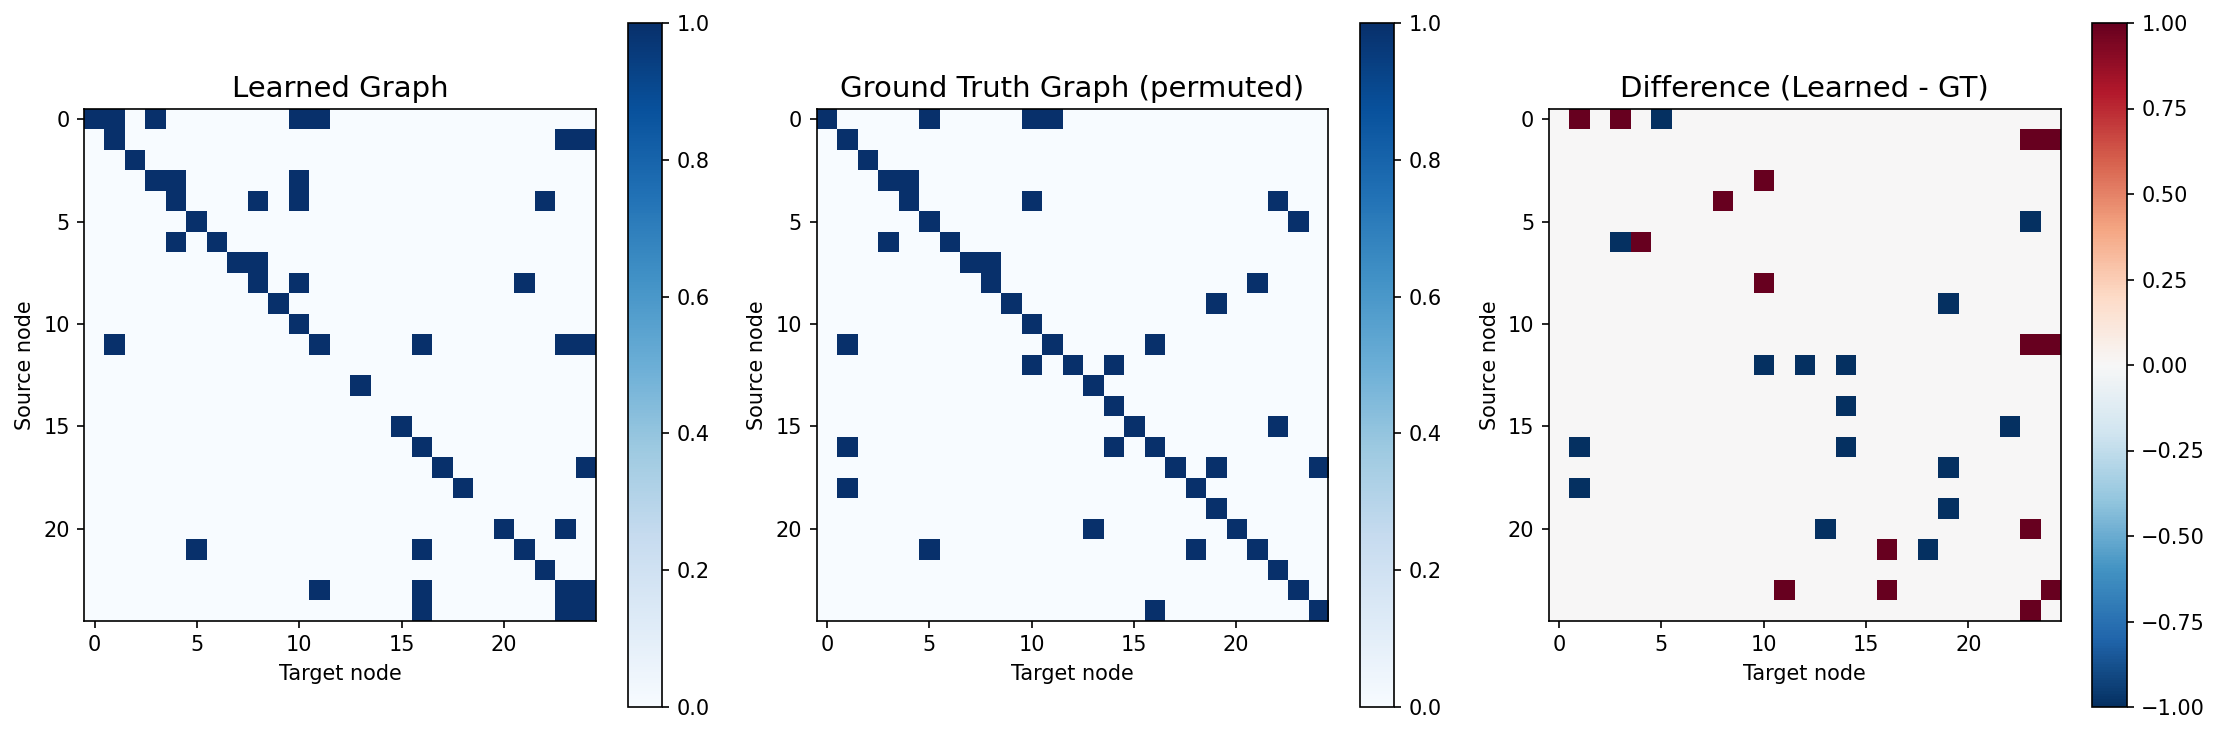
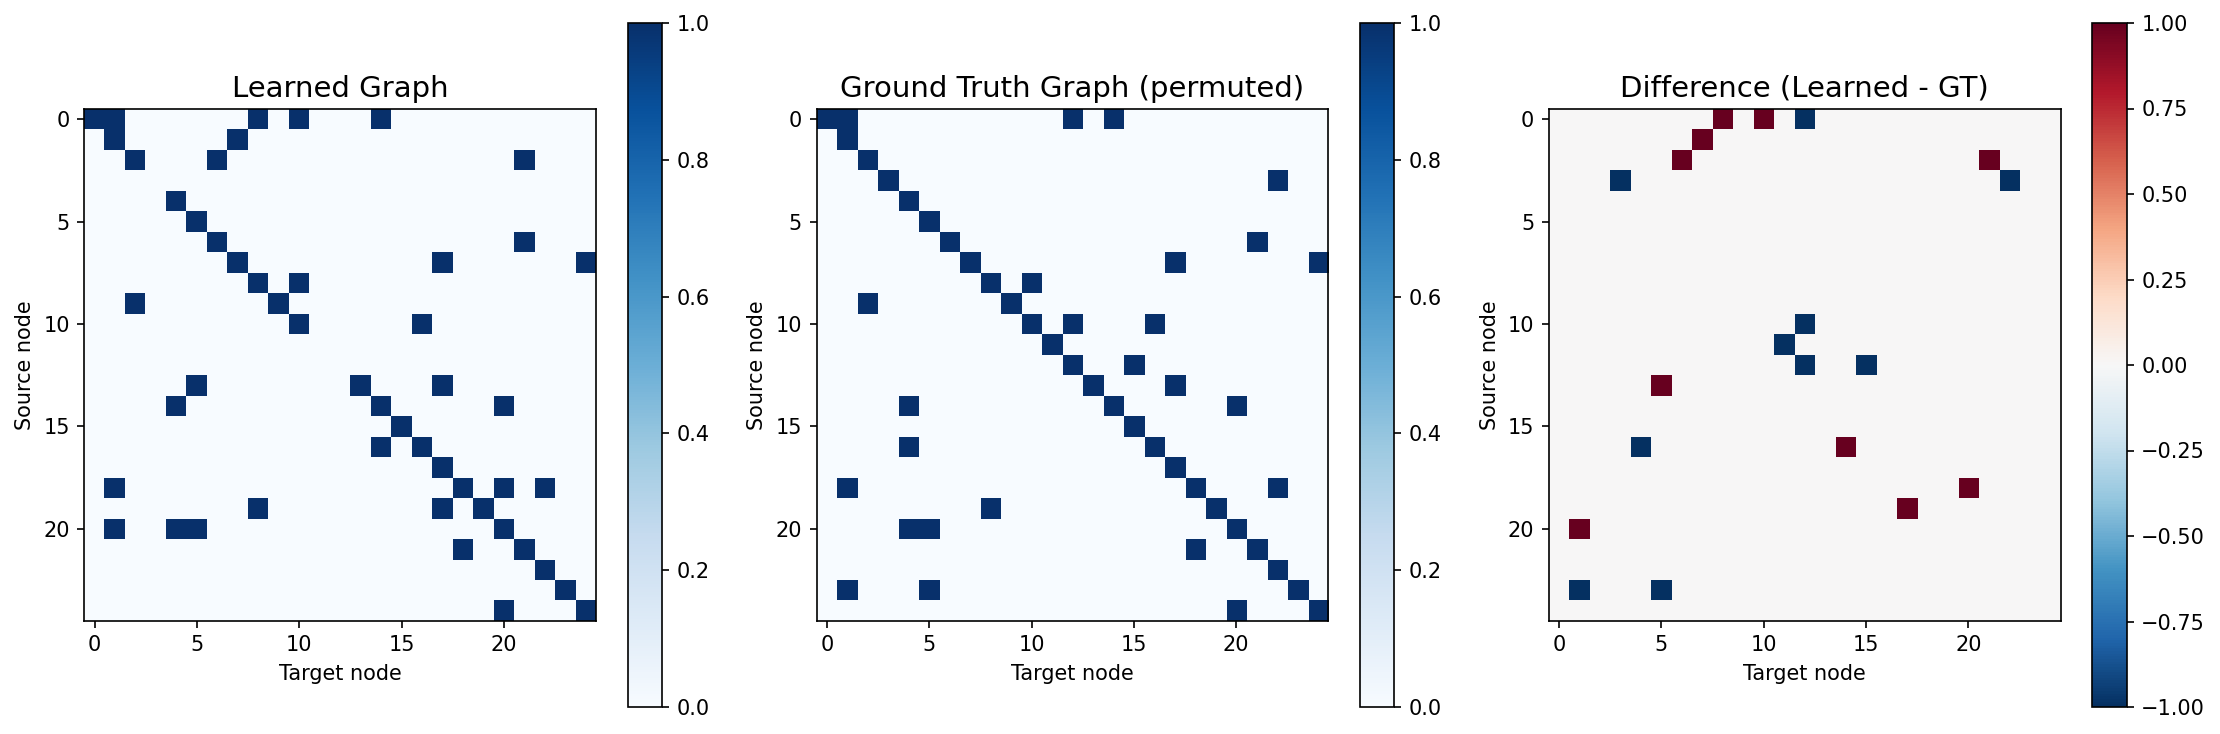
first commit

diff --git a/picabu_jax/train_picabu_latent.py b/picabu_jax/train_picabu_latent.py
@@ -65,11 +65,10 @@ Plotter = _get_plotter()
 class ALM:
     def __init__(self, mu_init=1e4, mu_mult_factor=1.2, omega_gamma=0.01,
                  omega_mu=0.9, h_threshold=1e-4, min_iter_convergence=100,
-                 dim_gamma=None, mu_max=1e6):  # 🔧 FIX: 添加 mu_max
+                 dim_gamma=None):
         self.mu_init = mu_init
         self.mu = mu_init
         self.mu_mult_factor = mu_mult_factor
-        self.mu_max = mu_max  # 🔧 FIX: μ 上限
         self.omega_gamma = omega_gamma
         self.omega_mu = omega_mu
         self.h_threshold = h_threshold
@@ -101,9 +100,6 @@ class ALM:
         if iteration > self.min_iter_convergence:
             if (prev - curr) / (prev + 1e-8) < self.omega_mu:
                 self.mu *= self.mu_mult_factor
-                # 🔧 FIX: μ 上限檢查
-                if self.mu > self.mu_max:
-                    self.mu = self.mu_max
                 self.has_increased_mu = True
         if isinstance(self.gamma, jnp.ndarray):
             self.gamma = self.gamma + self.omega_gamma * jnp.array(h_list[-1])
@@ -414,21 +410,18 @@ class TrainingLatentJAX:
             omega_gamma=self.hp.ortho_omega_gamma, omega_mu=self.hp.ortho_omega_mu,
             h_threshold=self.hp.ortho_h_threshold, min_iter_convergence=self.hp.ortho_min_iter_convergence,
             dim_gamma=(self.d_z, self.d_z),
-            mu_max=getattr(self.hp, 'ortho_mu_max', 1e6),  # 🔧 FIX: μ 上限
         )
         self.ALM_sparsity = SparsityALM(
             target_edges=self.target_edges,
             mu_init=getattr(self.hp, 'sparsity_mu_init', 0.1),
             mu_multiplier=getattr(self.hp, 'sparsity_mu_mult', 1.2),
-            threshold=1,
-            mu_max=getattr(self.hp, 'sparsity_mu_max', 1e4),  # 🔧 FIX: μ 上限
+            threshold=2.0,  # 合理的收斂閾值
         )
         if self.instantaneous:
             self.QPM_acyclic = ALM(
                 mu_init=self.hp.acyclic_mu_init, mu_mult_factor=self.hp.acyclic_mu_mult_factor,
                 omega_gamma=self.hp.acyclic_omega_gamma, omega_mu=self.hp.acyclic_omega_mu,
                 h_threshold=self.hp.acyclic_h_threshold, min_iter_convergence=self.hp.acyclic_min_iter_convergence,
-                mu_max=getattr(self.hp, 'acyclic_mu_max', 1e6),  # 🔧 FIX: μ 上限
             )
 
         while self.iteration < self.hp.max_iteration and not self.ended:
@@ -448,6 +441,13 @@ class TrainingLatentJAX:
                     ortho_conv = self.hp.no_w_constraint or self.ALM_ortho.state.has_converged
                     if self.ALM_ortho.state.has_increased_mu:
                         self._reset_optimizer()
+
+                    # 🔍 DEBUG: Sparsity ALM 收斂檢查
+                    if len(self.valid_sparsity_list) > 0:
+                        h = self.valid_sparsity_list[-1]
+                        print(f"[DEBUG] h_sparsity: {h:.4f}, threshold: {self.ALM_sparsity.threshold}, "
+                              f"abs(h) < threshold? {abs(h) < self.ALM_sparsity.threshold}, "
+                              f"μ: {self.ALM_sparsity.mu:.2e}")
 
                     self.ALM_sparsity.update(self.iteration, self.valid_sparsity_list, self.valid_loss_list)
                     if self.ALM_sparsity.has_increased_mu:

diff --git a/picabu_jax/dag_optim_jax.py b/picabu_jax/dag_optim_jax.py
@@ -228,13 +228,11 @@ class SparsityALM:
         omega_gamma: float = 0.01,
         omega_mu: float = 0.5,
         min_iter_convergence: int = 100,
-        mu_max: float = 1e4,
     ):
         self.target_edges = target_edges
         self.mu = mu_init
         self.mu_init = mu_init
         self.mu_multiplier = mu_multiplier
-        self.mu_max = mu_max
         self.threshold = threshold
         self.omega_gamma = omega_gamma
         self.omega_mu = omega_mu
@@ -267,7 +265,10 @@ class SparsityALM:
         return loss, float(h)
     
     def update(self, iteration: int, violation_list: list, loss_list: list):
-        """更新 ALM 參數"""
+        """
+        更新 ALM 參數（每個 epoch 調用一次）
+        """
+        self.iteration = iteration
         self.has_increased_mu = False
         
         if len(violation_list) < 2:
@@ -279,22 +280,20 @@ class SparsityALM:
         self.violation_history.append(current_h)
         
         # 檢查是否收斂
-        if current_h < self.threshold:
+        if current_h < self.threshold:  # ← 用 self.threshold
             self.has_converged = True
             return
         
-        # 更新 gamma（dual variable）
-        self.gamma += self.omega_gamma * violation_list[-1]
-        
-        # 檢查是否需要增加 mu（改善不夠時）
+        # 檢查是否需要增加 mu
         if iteration > self.min_iter_convergence:
             improvement = (prev_h - current_h) / (prev_h + 1e-8)
             if improvement < self.omega_mu:
                 self.mu *= self.mu_multiplier
-                # μ 上限檢查
-                if self.mu > self.mu_max:
-                    self.mu = self.mu_max
                 self.has_increased_mu = True
+        
+        # 更新 gamma
+        if len(violation_list) > 0:
+            self.gamma += self.omega_gamma * violation_list[-1]
     
     def reset(self):
         """重置 ALM 狀態"""
